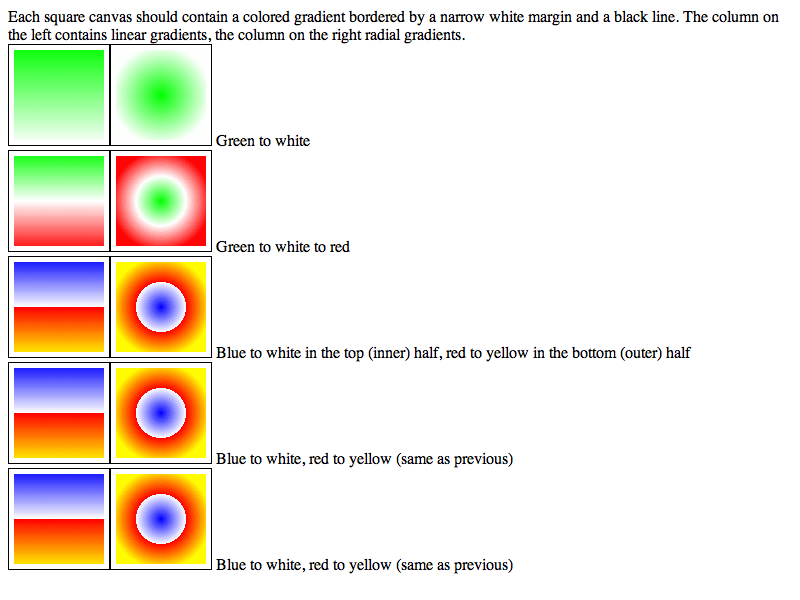
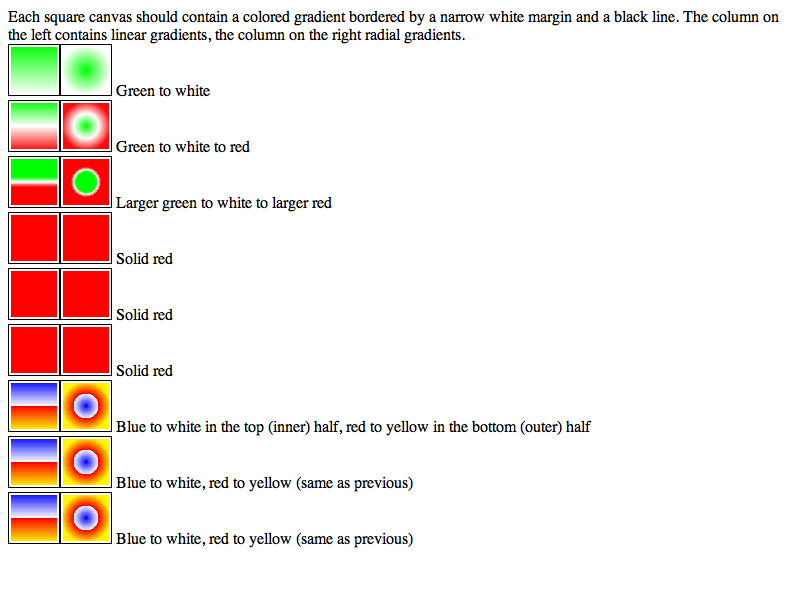
2008-10-12  Pamela Greene  <pam@chromium.org>
Reviewed by Darin Adler.

        - https://bugs.webkit.org/show_bug.cgi?id=21523

        Add tests to cover more gradient edge cases: missing endpoints, only
        endpoints, only one stop.

        * fast/canvas/fillrect_gradient.html:
        * platform/mac/fast/canvas/fillrect_gradient-expected.checksum:
        * platform/mac/fast/canvas/fillrect_gradient-expected.png:
        * platform/mac/fast/canvas/fillrect_gradient-expected.txt:

git-svn-id: https://svn.webkit.org/repository/webkit/trunk@37554 268f45cc-cd09-0410-ab3c-d52691b4dbfc

Changed region(s): [[0.0, 0.06, 0.875, 0.96]]

diff --git a/LayoutTests/fast/canvas/fillrect_gradient.html b/LayoutTests/fast/canvas/fillrect_gradient.html
@@ -12,13 +12,13 @@ The column on the left contains linear gradients, the column on the right radial
         // Create canvas elements
         var lin = document.createElement('canvas');
         lin.setAttribute('id', 'canvas' + counter + 'lin');
-        lin.setAttribute('height', 100);
-        lin.setAttribute('width', 100);
+        lin.setAttribute('height', 50);
+        lin.setAttribute('width', 50);
         var rad = document.createElement('canvas');
         rad.setAttribute('id', 'canvas' + counter + 'rad');
-        rad.setAttribute('height', 100);
-        rad.setAttribute('width', 100);
-        
+        rad.setAttribute('height', 50);
+        rad.setAttribute('width', 50);
+
         document.body.appendChild(lin);
         document.body.appendChild(rad);
         document.body.appendChild(document.createTextNode(' ' + description));
@@ -29,8 +29,8 @@ The column on the left contains linear gradients, the column on the right radial
         var radctx = rad.getContext('2d')
 
         // Create linear and radial gradients from array
-        var lingrad = linctx.createLinearGradient(0, 0, 0, 100);
-        var radgrad = linctx.createRadialGradient(50, 50, 0, 50, 50, 50);
+        var lingrad = linctx.createLinearGradient(0, 0, 0, 50);
+        var radgrad = linctx.createRadialGradient(25, 25, 0, 25, 25, 25);
         for (var i = 0; i < gradient.length - 1; i+=2) {
             lingrad.addColorStop(gradient[i], gradient[i + 1]);
             radgrad.addColorStop(gradient[i], gradient[i + 1]);
@@ -38,12 +38,15 @@ The column on the left contains linear gradients, the column on the right radial
 
         // Apply them
         linctx.fillStyle = lingrad;
-        linctx.fillRect(5, 5, 90, 90);
+        linctx.fillRect(2, 2, 46, 46);
         radctx.fillStyle = radgrad;
-        radctx.fillRect(5, 5, 90, 90);
+        radctx.fillRect(2, 2, 46, 46);
 
         counter++;
     }
+
+    // Note: This test won't be as useful with many more cases added, since
+    // they'll scroll below the pixel-test boundary.
 
     // Simple gradient
     Test('Green to white',
@@ -55,6 +58,24 @@ The column on the left contains linear gradients, the column on the right radial
          new Array(  0, '#0f0',
                    0.5, '#fff',
                    1,   '#f00'));
+
+    // No stops at 0.0 or 1.0
+    Test('Larger green to white to larger red',
+         new Array(0.4, '#0f0',
+                   0.5, '#fff',
+                   0.6, '#f00'));
+
+    // Only one stop, at zero
+    Test('Solid red',
+         new Array(0.0, '#f00'));
+
+    // Only one stop, at 1.0
+    Test('Solid red',
+         new Array(1.0, '#f00'));
+
+    // Only one stop, in the middle
+    Test('Solid red',
+         new Array(0.5, '#f00'));
 
     // Disjoint gradients (multiple stops at the same offset)
     Test('Blue to white in the top (inner) half, red to yellow in the bottom (outer) half',
